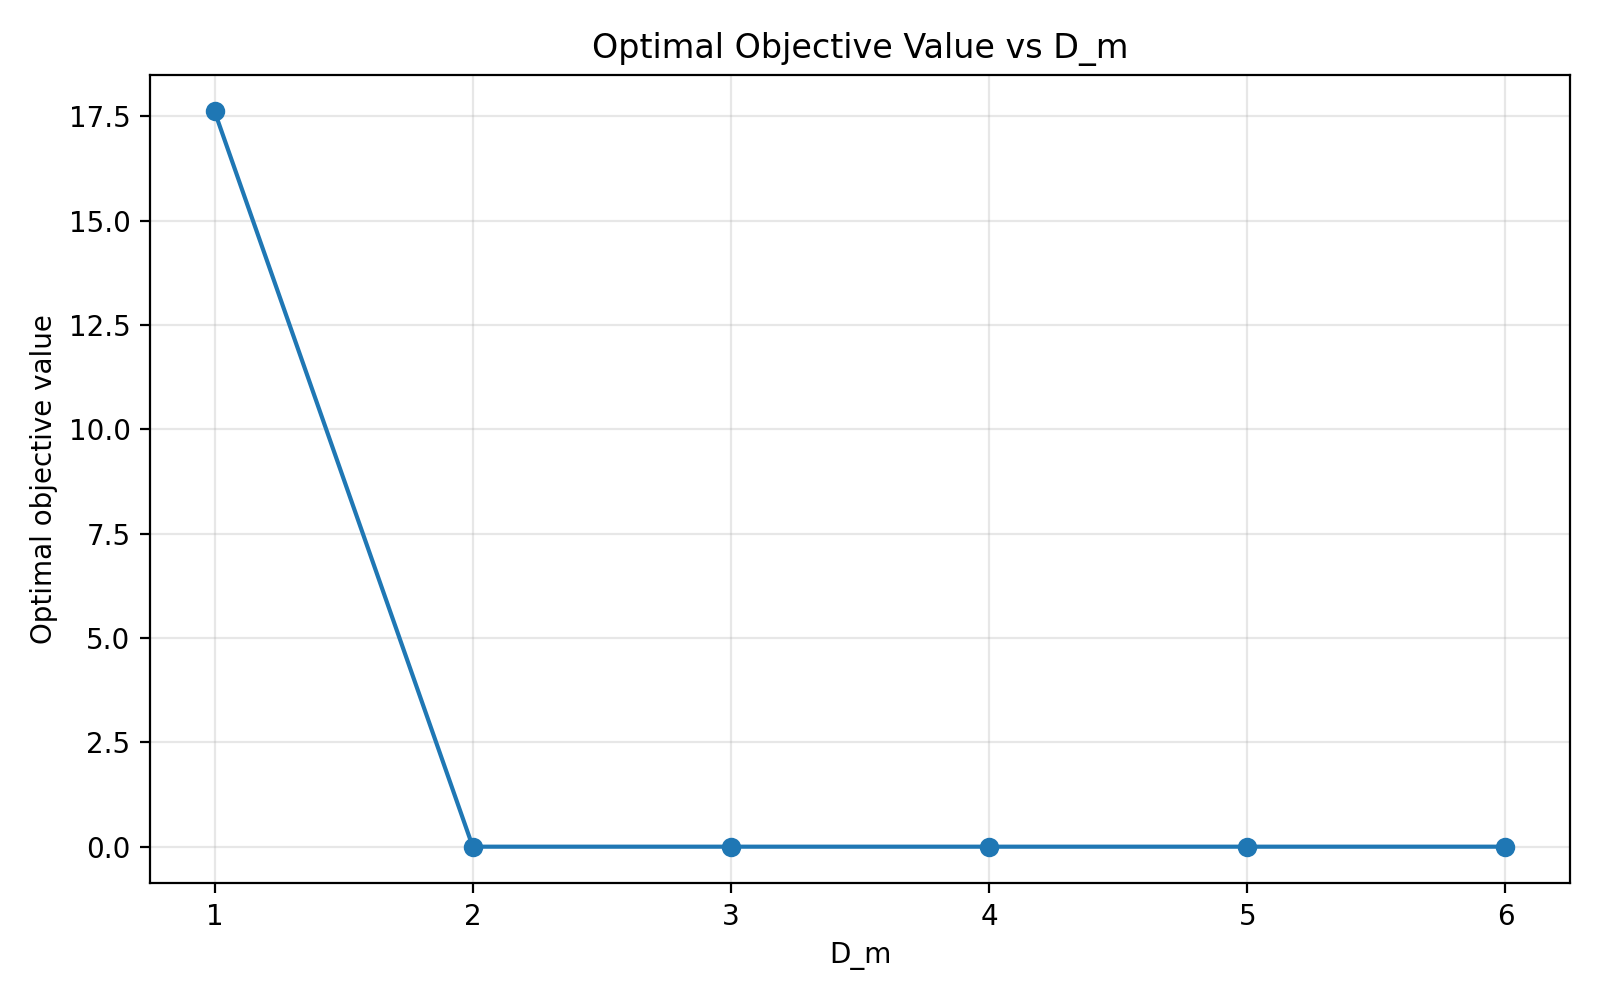
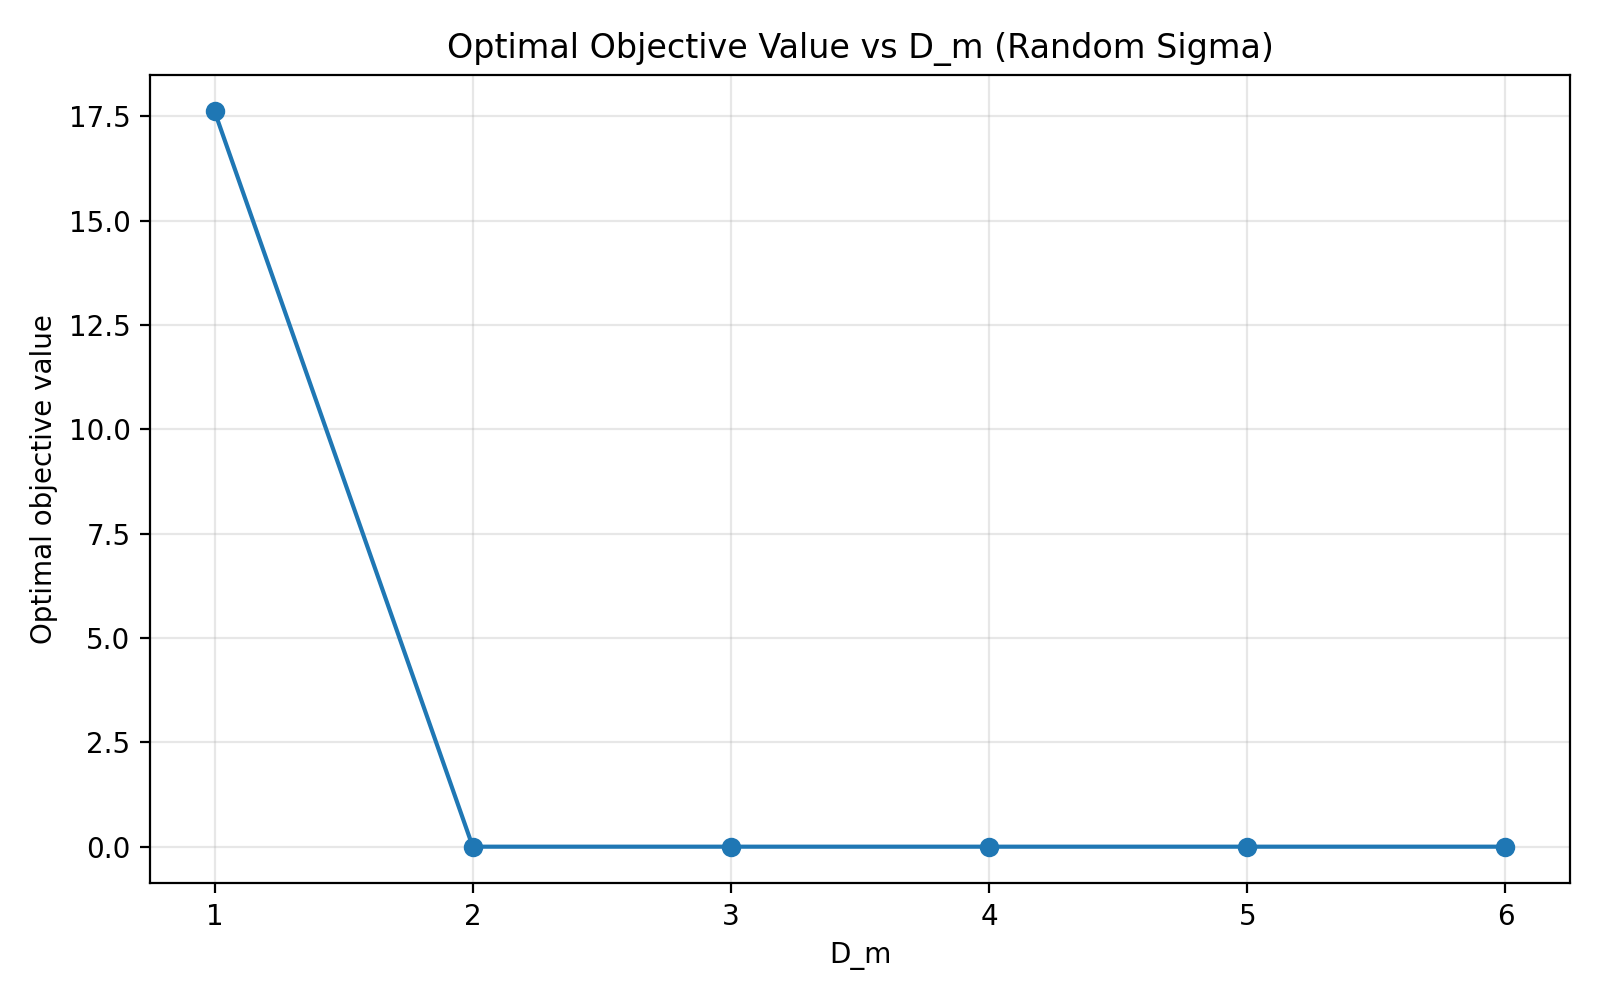
obj vs pen added

Changed region(s): [[0.2812, 0.031, 0.8125, 0.062]]

diff --git a/plot_objective_vs_dm.py b/plot_objective_vs_dm.py
@@ -5,6 +5,36 @@ import matplotlib.pyplot as plt
 from main import optimize_lambda
 
 
+def numerical_integral_sqrt_log_term(upper, num_grid=5000):
+    if upper <= 0:
+        return 0.0
+
+    eps = min(1e-8, upper * 1e-4)
+    grid = np.linspace(eps, upper, num_grid)
+    integrand = np.sqrt(np.log1p(1.0 / grid))
+    return np.trapezoid(integrand, grid)
+
+
+def empirical_covariance_from_samples(X):
+    num_samples = X.shape[0]
+    if num_samples < 2:
+        raise ValueError("At least two observations are required to compute Sigma_hat.")
+
+    X_centered = X - X.mean(axis=0, keepdims=True)
+    return X_centered.T @ X_centered / (num_samples - 1)
+
+
+def sample_empirical_covariance(Sigma, num_samples, seed=None):
+    rng = np.random.default_rng(seed)
+    num_features = Sigma.shape[0]
+    X = rng.multivariate_normal(
+        mean=np.zeros(num_features),
+        cov=Sigma,
+        size=num_samples,
+    )
+    return empirical_covariance_from_samples(X)
+
+
 def compute_objective_curve(
     Sigma,
     beta=1.0,
@@ -50,14 +80,116 @@ def compute_objective_curve(
     return np.array(d_m_values), np.array(objective_values)
 
 
-def plot_objective_curve(d_m_values, objective_values, output_path):
+def compute_penalty_curve(Sigma, sample_size, ell, r_value):
+    matrix_dim = Sigma.shape[0]
+    d_m_values = np.arange(1, matrix_dim * (matrix_dim - 1) + 2)
+
+    eigenvalues = np.linalg.eigvalsh(Sigma)
+    lambda_inf = np.max(np.abs(eigenvalues))
+    lambda_two = np.linalg.norm(eigenvalues, 2)
+
+    m_value = np.log(sample_size)
+    r_bound = np.sqrt(
+        np.sum(eigenvalues)
+        + 2.0 * lambda_inf * m_value
+        + 2.0 * lambda_two * np.sqrt(m_value)
+    )
+
+    v_value = sample_size / 2.0
+    v_prime = 2.0 * v_value
+
+    sigma_op = np.linalg.norm(Sigma, 2)
+    sigma_fro = np.linalg.norm(Sigma, "fro")
+    trace_sigma = np.trace(Sigma)
+
+    l_prime = (
+        32.0
+        * (
+            (sample_size**2 / (sample_size - 1) ** 2) * r_bound**4
+            + ((sample_size + 1) / (sample_size - 1)) * sigma_op**2
+        )
+        * ell**3
+        + 8.0
+        * ((sample_size / (sample_size - 1)) * r_bound**2 + sigma_op)
+        * ell**2
+        + 8.0
+        * (
+            (sample_size**2 / (sample_size - 1) ** 2) * r_bound**4
+            + 2.0 * r_value * (sample_size / (sample_size - 1)) * r_bound**2
+            + sigma_op**2
+            + 2.0 * r_value * sigma_op
+            + (1.0 / (sample_size - 1)) * sigma_op * (sigma_fro + sigma_op)
+        )
+        * ell
+        + 2.0 * ((sample_size / (sample_size - 1)) * r_bound**2 + abs(trace_sigma))
+    )
+
+    integral_value = numerical_integral_sqrt_log_term(l_prime / 4.0)
+    k_value = 48.0 * (ell + r_value) * integral_value
+
+    c_value = (
+        ((8.0 / (sample_size - 1)) + (4.0 / sample_size))
+        * ((8.0 * sample_size / (sample_size - 1)) + (8.0 / (sample_size - 1)) + (4.0 / sample_size))
+        * (1.0 + 3.0 * ell**2)
+        * r_bound**4
+        + 2.0
+        * np.sqrt(matrix_dim)
+        * ((8.0 / (sample_size - 1)) + (4.0 / sample_size))
+        * (2.0 + 4.0 * ell**2)
+        * r_value
+        * r_bound**2
+    )
+    v_value = sample_size * c_value**2 / 2.0
+    v_prime = 2.0 * v_value
+
+    penalty_values = np.sqrt(d_m_values) * (k_value + np.sqrt(2.0 * v_prime) * ell)
+
+    b_value = sigma_fro**2 * ell**4 * (1.0 + 1.0 / ell**2) + sigma_fro**2 + trace_sigma**2
+
+    constants = {
+        "R": r_bound,
+        "v": v_value,
+        "v_prime": v_prime,
+        "K": k_value,
+        "L_prime": l_prime,
+        "B": b_value,
+    }
+    return d_m_values, penalty_values, constants
+
+
+def penalty_values_for_d_m(d_m_values, penalty_d_m_values, penalty_values):
+    penalty_map = {
+        int(d_m): penalty
+        for d_m, penalty in zip(penalty_d_m_values, penalty_values)
+    }
+    return np.array([penalty_map[int(d_m)] for d_m in d_m_values])
+
+
+def resample_curve_evenly_in_x(x_values, y_values, num_points=None):
+    if len(x_values) <= 1:
+        return x_values, y_values
+
+    order = np.argsort(x_values)
+    x_sorted = x_values[order]
+    y_sorted = y_values[order]
+
+    if num_points is None:
+        num_points = len(x_sorted)
+
+    x_even = np.linspace(x_sorted[0], x_sorted[-1], num_points)
+    y_even = np.interp(x_even, x_sorted, y_sorted)
+    return x_even, y_even
+
+
+def plot_curve(x_values, y_values, output_path, title, xlabel, ylabel):
     plt.figure(figsize=(8, 5))
-    plt.plot(d_m_values, objective_values, marker="o", linewidth=1.5)
-    plt.xlabel("D_m")
-    plt.ylabel("Optimal objective value")
-    plt.title("Optimal Objective Value vs D_m")
+    plt.plot(x_values, y_values, marker="o", linewidth=1.5)
+    plt.xlabel(xlabel)
+    plt.ylabel(ylabel)
+    plt.title(title)
     plt.grid(True, alpha=0.3)
-    plt.xticks(d_m_values)
+    if len(x_values) <= 15:
+        plt.xticks(x_values)
     plt.tight_layout()
     plt.savefig(output_path, dpi=200)
     plt.close()
@@ -68,14 +200,43 @@ def parse_args():
         description="Plot optimal objective value as a function of D_m for a fixed Sigma."
     )
     parser.add_argument(
-        "--output",
-        default="objective_vs_dm.png",
-        help="Path to save the plot image for the given Sigma example.",
+        "--given-output",
+        default="objective_vs_dm_given.png",
+        help="Path to save the plot image for the given Sigma.",
     )
     parser.add_argument(
         "--random-output",
         default="objective_vs_dm_random.png",
-        help="Path to save the plot image for the random Sigma example.",
+        help="Path to save the plot image for the random Sigma.",
+    )
+    parser.add_argument(
+        "--sigma-hat-output",
+        default="objective_vs_dm_sigma_hat.png",
+        help="Path to save the plot image for optimal value vs pen_n(m) using Sigma_hat built from the given Sigma.",
+    )
+    parser.add_argument(
+        "--num-samples",
+        type=int,
+        default=100,
+        help="Number of i.i.d. Gaussian observations used to build Sigma_hat.",
+    )
+    parser.add_argument(
+        "--ell",
+        type=float,
+        default=0.5,
+        help="Positive constant L_m = L in (0, 1).",
+    )
+    parser.add_argument(
+        "--r-value",
+        type=float,
+        default=0.5,
+        help="Positive constant r in (0, 1).",
+    )
+    parser.add_argument(
+        "--sigma-hat-plot-points",
+        type=int,
+        default=None,
+        help="Number of evenly spaced points to use on the pen_n(m) axis for the Sigma_hat plot.",
     )
     return parser.parse_args()
 
@@ -89,23 +250,96 @@ if __name__ == "__main__":
         [0.3, 0.4, 1.2],
     ])
 
+    print("Given Sigma:")
+    print(Sigma_given)
     d_m_values, objective_values = compute_objective_curve(Sigma_given)
 
     if len(d_m_values) == 0:
         print("No finite solutions were found for the given Sigma.")
     else:
-        plot_objective_curve(d_m_values, objective_values, args.output)
-        print(f"Saved given-Sigma plot to {args.output}")
+        plot_curve(
+            d_m_values,
+            objective_values,
+            args.given_output,
+            title="Optimal Objective Value vs D_m (Given Sigma)",
+            xlabel="D_m",
+            ylabel="Optimal objective value",
+        )
+        print(f"Saved given-Sigma plot to {args.given_output}")
 
     np.random.seed(1)
     n = Sigma_given.shape[0]
     A = np.random.randn(n, n)
     Sigma_random = A @ A.T / n
 
+    print("\nRandom Sigma:")
+    print(Sigma_random)
     d_m_values, objective_values = compute_objective_curve(Sigma_random)
 
     if len(d_m_values) == 0:
         print("No finite solutions were found for the random Sigma.")
     else:
-        plot_objective_curve(d_m_values, objective_values, args.random_output)
+        plot_curve(
+            d_m_values,
+            objective_values,
+            args.random_output,
+            title="Optimal Objective Value vs D_m (Random Sigma)",
+            xlabel="D_m",
+            ylabel="Optimal objective value",
+        )
         print(f"Saved random-Sigma plot to {args.random_output}")
+
+    Sigma_hat_given = sample_empirical_covariance(
+        Sigma_given,
+        num_samples=args.num_samples,
+        seed=0,
+    )
+
+    print("\nEmpirical covariance Sigma_hat from given Sigma:")
+    print(Sigma_hat_given)
+
+    d_m_values, objective_values = compute_objective_curve(Sigma_hat_given)
+
+    if len(d_m_values) == 0:
+        print("No finite solutions were found for Sigma_hat built from the given Sigma.")
+    else:
+        plot_curve(
+            d_m_values,
+            objective_values,
+            args.sigma_hat_output,
+            title="Optimal Objective Value vs D_m (Sigma_hat from Given Sigma)",
+            xlabel = "D_m",
+            ylabel="Optimal objective value",
+        )
+        print(f"Saved given-Sigma_hat plot to {args.sigma_hat_output}")
+
+    penalty_d_m_values, penalty_values, penalty_constants = compute_penalty_curve(
+        Sigma_given,
+        sample_size=args.num_samples,
+        ell=args.ell,
+        r_value=args.r_value,
+    )
+    print("\nPenalty constants based on Sigma_given:")
+    for key, value in penalty_constants.items():
+        print(f"{key} = {value}")
+
+    sigma_hat_penalties = penalty_values_for_d_m(
+        d_m_values,
+        penalty_d_m_values,
+        penalty_values,
+    )
+    sigma_hat_penalties_even, objective_values_even = resample_curve_evenly_in_x(
+        sigma_hat_penalties,
+        objective_values,
+        num_points=args.sigma_hat_plot_points,
+    )
+
+    plot_curve(
+        sigma_hat_penalties_even,
+        objective_values_even,
+        args.sigma_hat_output,
+        title="Optimal Objective Value vs pen_n(m) (Sigma_hat from Given Sigma)",
+        xlabel="pen_n(m)",
+        ylabel="Optimal objective value",
+    )
+    print(f"Saved Sigma_hat objective-vs-penalty plot to {args.sigma_hat_output}")
